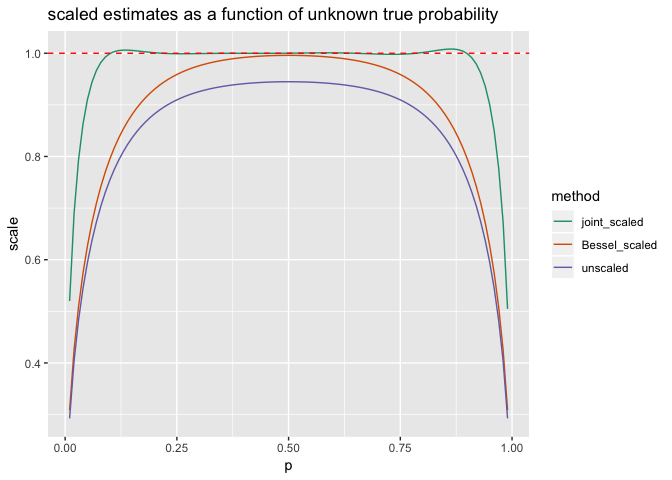
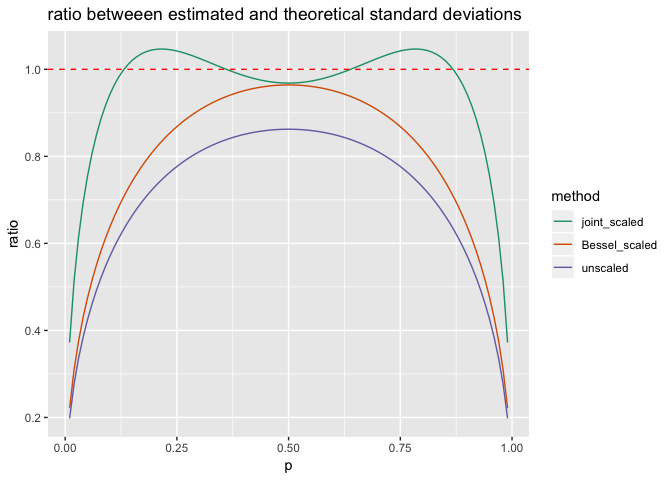
re-run

diff --git a/extras/BiasEsts.md b/extras/BiasEsts.md
@@ -49,16 +49,19 @@ eval_scale_adjustment_table <- function(scale_adjustment_table, p, sd_fun = naiv
 # http://www.win-vector.com/blog/2014/07/frequenstist-inference-only-seems-easy/
 # https://mathoverflow.net/questions/177574/existence-of-solutions-of-a-polynomial-system 
 # think this is under-determined, so could ask for symmetry or all coefs near 1.
-# also a lot like a Chebyshev polynomial.
+# also a lot like a Chebyshev polynomial (or integral of one), or upside down beta.
+# can also try priors like beta(0.5,0.5)
 solve_for_scaling_table <- function(n, sd_fun = naive_sd_fun) {
   if(n<2) {
     return(rep(1, n+1))
   }
   obs <- 1:(n-1)
-  ps <- obs/n
+  vars <- paste0("s_", 1:(n-1))
+  excess_resolution <- 2
+  #ps <- seq(1/n, (n-1)/n, by = 1/(excess_resolution*n))
+  ps <- seq(1/(excess_resolution*n), (excess_resolution*n-1)/(excess_resolution*n), by = 1/(excess_resolution*n))
   d <- data.frame(target = sqrt(ps*(1-ps)))
-  vars <- paste0("s_", obs)
-  for(ki in seq_len(length(obs))) {
+  for(ki in seq_len(length(vars))) {
     k <- obs[[ki]]
     var <- vars[[ki]]
     d[[var]] <- 0
@@ -75,6 +78,7 @@ solve_for_scaling_table <- function(n, sd_fun = naive_sd_fun) {
   #soln <- as.numeric(m$coefficients) + 1
   m <- glmnet(as.matrix(d[, vars, drop = FALSE]), d$target, 
               alpha=0, lambda=1e-8, family = "gaussian", intercept = FALSE,
+              weights = dbeta(ps, 0.5, 0.5),
               lower.limits = -10,
               standardize = FALSE)
   soln <- as.numeric(m$beta) + 1
@@ -85,31 +89,39 @@ solve_for_scaling_table <- function(n, sd_fun = naive_sd_fun) {
 solve_for_scaling_table(100)
 ```
 
-    ##   [1] 1.3930552 1.3925804 1.1567448 0.9851918 0.9829092 1.0251210 1.0428405
-    ##   [8] 1.0356725 1.0210623 1.0102647 1.0063072 1.0076184 1.0109325 1.0133155
-    ##  [15] 1.0134711 1.0118532 1.0097512 1.0082297 1.0076235 1.0076539 1.0078310
-    ##  [22] 1.0077968 1.0074594 1.0069429 1.0064542 1.0061591 1.0061152 1.0062694
-    ##  [29] 1.0064985 1.0066660 1.0066708 1.0064749 1.0061077 1.0056490 1.0052016
-    ##  [36] 1.0048617 1.0046938 1.0047177 1.0049065 1.0051961 1.0055025 1.0057420
-    ##  [43] 1.0058503 1.0057965 1.0055880 1.0052688 1.0049080 1.0045840 1.0043675
-    ##  [50] 1.0043052 1.0044096 1.0046561 1.0049881 1.0053299 1.0056035 1.0057464
-    ##  [57] 1.0057275 1.0055546 1.0052747 1.0049636 1.0047091 1.0045891 1.0046511
-    ##  [64] 1.0048981 1.0052844 1.0057245 1.0061137 1.0063563 1.0063956 1.0062351
-    ##  [71] 1.0059458 1.0056526 1.0055008 1.0056094 1.0060236 1.0066833 1.0074232
-    ##  [78] 1.0080149 1.0082474 1.0080274 1.0074628 1.0068856 1.0067737 1.0075611
-    ##  [85] 1.0093750 1.0118040 1.0138569 1.0142748 1.0122635 1.0084739 1.0056814
-    ##  [92] 1.0082417 1.0193581 1.0361148 1.0450304 1.0264229 0.9817615 0.9837454
-    ##  [99] 1.1573127 1.3930552 1.3930552
+    ##   [1] 1.8213318 1.8181678 0.8109601 0.9197317 1.1129045 1.1003459 1.0233049
+    ##   [8] 0.9844096 0.9908930 1.0128501 1.0262441 1.0252522 1.0163959 1.0082936
+    ##  [15] 1.0053160 1.0068424 1.0097841 1.0113923 1.0106880 1.0083724 1.0059089
+    ##  [22] 1.0045523 1.0047903 1.0062947 1.0082301 1.0096880 1.0100479 1.0091581
+    ##  [29] 1.0073210 1.0051331 1.0032614 1.0022317 1.0022886 1.0033514 1.0050642
+    ##  [36] 1.0069129 1.0083726 1.0090445 1.0087513 1.0075711 1.0058071 1.0039033
+    ##  [43] 1.0023314 1.0014740 1.0015333 1.0024842 1.0040833 1.0059294 1.0075610
+    ##  [50] 1.0085688 1.0086961 1.0079028 1.0063791 1.0045022 1.0027465 1.0015669
+    ##  [57] 1.0012830 1.0019924 1.0035369 1.0055334 1.0074646 1.0088114 1.0091953
+    ##  [64] 1.0084916 1.0068818 1.0048230 1.0029348 1.0018262 1.0019073 1.0032406
+    ##  [71] 1.0054850 1.0079645 1.0098617 1.0104901 1.0095672 1.0073858 1.0047953
+    ##  [78] 1.0029524 1.0028816 1.0049788 1.0086670 1.0124218 1.0142985 1.0128924
+    ##  [85] 1.0083929 1.0031416 1.0010522 1.0055737 1.0166958 1.0286843 1.0312171
+    ##  [92] 1.0162191 0.9893809 0.9780701 1.0183165 1.1039017 1.1204432 0.9175578
+    ##  [99] 0.8058372 1.8213318 1.8213318
 
 ``` r
-tab <- solve_for_scaling_table(10)
-print(tab)
+solve_for_scaling_table(10)
 ```
 
-    ##  [1] 1.8522661 1.8522661 0.5491785 1.3471479 1.0597513 0.8383810 1.2555957
-    ##  [8] 1.0988166 0.7175880 1.7868709 1.8522661
+    ##  [1]  2.19586703  2.19317182 -0.06256223  1.89976626  0.86643521
+    ##  [6]  0.88921078  0.85202395  1.91632855 -0.07192223  2.19586703
+    ## [11]  2.19586703
 
 ``` r
+solve_for_scaling_table(5)
+```
+
+    ## [1] 1.9093087 1.9093087 0.8005699 0.8037763 1.9078200 1.9093087
+
+``` r
+tab <- solve_for_scaling_table(5)
+
 adjs <- data.frame(p = seq(0, 1, by = 0.01))
 adjs$joint_scaled <- vapply(
   adjs$p,
@@ -131,57 +143,20 @@ adjs$unscaled <- vapply(
 adjsp <- unpivot_to_blocks(
   adjs, 
   nameForNewKeyColumn = "method", 
-  nameForNewValueColumn = "scale", columnsToTakeFrom = c("joint_scaled", "unscaled", "Bessel_scaled"))
-adjsp <- adjsp[!is.na(adjsp$scale), , drop = FALSE]
-adjsp$method <- reorder(factor(adjsp$method), -adjsp$scale)
+  nameForNewValueColumn = "ratio", 
+  columnsToTakeFrom = c("joint_scaled", "unscaled", "Bessel_scaled"))
+adjsp <- adjsp[!is.na(adjsp$ratio), , drop = FALSE]
+adjsp$method <- reorder(factor(adjsp$method), -adjsp$ratio)
 
 
-ggplot(data = adjsp, mapping = aes(x = p, y = scale, color = method)) +
+ggplot(data = adjsp, mapping = aes(x = p, y = ratio, color = method)) +
   geom_line() +
   geom_hline(yintercept = 1, color = "red", linetype=2) + 
   scale_color_brewer(palette = "Dark2") + 
-  ggtitle("scaled estimates as a function of unknown true probability")
+  ggtitle("ratio betweeen estimated and theoretical standard deviations")
 ```
 
 ![](BiasEsts_files/figure-markdown_github/unnamed-chunk-1-1.png)
-
-``` r
-adjs[adjs$p==0.5, , drop = FALSE]
-```
-
-    ##      p joint_scaled Bessel_scaled  unscaled
-    ## 51 0.5     1.000118     0.9959094 0.9448026
-
-``` r
-adjs2 <- adjs
-for(col in c("joint_scaled", "unscaled", "Bessel_scaled")) {
-  adjs2[[col]] <- adjs2[[col]]/adjs2[[col]][adjs2$p==0.5]
-}
-adjs2[adjs2$p==0.5, , drop = FALSE]
-```
-
-    ##      p joint_scaled Bessel_scaled unscaled
-    ## 51 0.5            1             1        1
-
-``` r
-adjsp2 <- unpivot_to_blocks(
-  adjs2, 
-  nameForNewKeyColumn = "method", 
-  nameForNewValueColumn = "scale", columnsToTakeFrom = c("joint_scaled", "unscaled", "Bessel_scaled"))
-adjsp2 <- adjsp2[!is.na(adjsp2$scale), , drop = FALSE]
-adjsp2$method <- reorder(factor(adjsp2$method), -adjsp2$scale)
-
-ggplot(data = adjsp2, mapping = aes(x = p, y = scale, 
-                                    color = method,
-                                    linetype = method)) +
-  geom_line(size=2, alpha=0.8) +
-  geom_hline(yintercept = 1, color = "red", linetype=2) + 
-  scale_color_brewer(palette = "Dark2") + 
-  ggtitle("scaled estimates as a function of unknown true probability",
-          subtitle = "rescaled at p=0.5")
-```
-
-![](BiasEsts_files/figure-markdown_github/unnamed-chunk-1-2.png)
 
 ``` r
 data <- as.data.frame(Titanic)
@@ -230,10 +205,10 @@ tabu <- solve_for_scaling_table(length(universe), naive_sd_fun)
 print(tabu)
 ```
 
-    ##  [1] 1.7109424 1.7109424 0.8684519 0.9354189 1.1777021 1.0692204 0.9567474
-    ##  [8] 0.9880857 1.0536182 1.0657459 1.0273041 0.9867268 0.9890066 1.0357890
-    ## [15] 1.0737013 1.0436437 0.9685827 0.9683659 1.0980121 1.1523923 0.9198409
-    ## [22] 0.9007414 1.6931604 1.7109424
+    ##  [1] 2.13590753 2.13590753 0.09422216 1.59689344 1.09879480 0.76217929
+    ##  [7] 1.06407856 1.16815855 0.99387764 0.92022543 1.03808551 1.12478461
+    ## [13] 1.03591093 0.90708466 0.95574848 1.14704538 1.17113062 0.89472372
+    ## [19] 0.77706477 1.27998049 1.42456483 0.16594193 2.12171330 2.13590753
 
 ``` r
 su <- summary1(
@@ -243,7 +218,7 @@ print(su)
 ```
 
     ##        mean       var        sd naive_var  naive_sd    adj_sd
-    ## 1 0.8695652 0.1185771 0.3443502 0.1134216 0.3367812 0.3097851
+    ## 1 0.8695652 0.1185771 0.3443502 0.1134216 0.3367812 0.4797666
 
 ``` r
 n <- length(universe)
@@ -281,7 +256,7 @@ tabs <- solve_for_scaling_table(samp_size, naive_sd_fun)
 print(tabs)
 ```
 
-    ## [1] 1.7104400 1.7104400 0.9188868 0.9257427 1.7068531 1.7104400
+    ## [1] 1.9093087 1.9093087 0.8005699 0.8037763 1.9078200 1.9093087
 
 ``` r
 f <- mk_f(universe, samp_size, summary1)
@@ -294,5 +269,5 @@ res <- do.call(rbind, res)
 as.data.frame(lapply(res, mean))
 ```
 
-    ##      mean     var        sd naive_var  naive_sd    adj_sd
-    ## 1 0.86974 0.11319 0.2373046  0.090552 0.2122517 0.3131229
+    ##       mean      var        sd naive_var  naive_sd    adj_sd
+    ## 1 0.869462 0.113391 0.2375928 0.0907128 0.2125095 0.3352917
